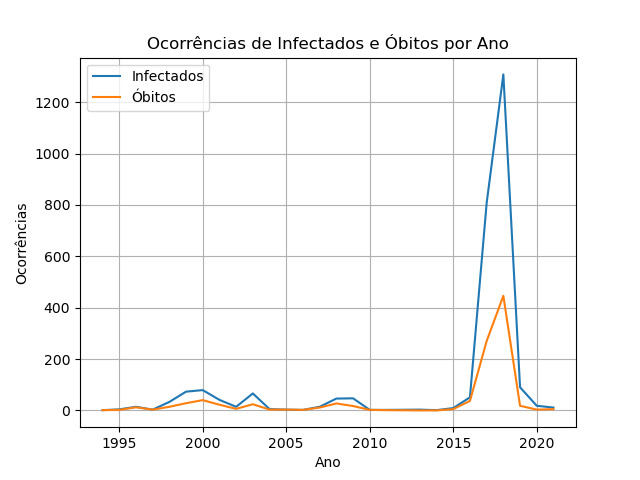
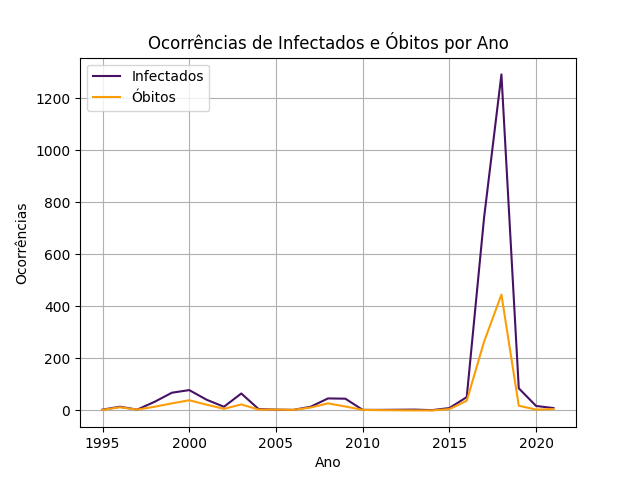
atualização da análise (2) e visualização

diff --git a/Analise_2/visualizacao.py b/Analise_2/visualizacao.py
@@ -1,5 +1,6 @@
 import matplotlib.pyplot as plt
 import pandas as pd
+import matplotlib.colors as mcolors
 
 def definir_rotulos(titulo, eixo_x, eixo_y):
     """
@@ -25,6 +26,7 @@ def definir_rotulos(titulo, eixo_x, eixo_y):
     plt.ylabel(eixo_y)
     return None
 
+
 def plotar_ocorrencias_ano(df:pd.DataFrame) -> None:
     """
     Plota ocorrências de infectados e óbitos por ano.
@@ -39,13 +41,13 @@ def plotar_ocorrencias_ano(df:pd.DataFrame) -> None:
     None
     """
     # Criação de arrays com as séries de valores
-    anos = df.iloc[:,0].values
-    infectados = df.iloc[:,1].values
-    obitos = df.iloc[:,2].values
+    anos = df['ANO_IS']
+    infectados = df['INFECTADOS']
+    obitos = df['OBITO']
 
     # Plotagem das séries de valores em um gráfico de linhas
-    plt.plot(anos,infectados,label='Infectados')
-    plt.plot(anos,obitos,label='Óbitos')
+    plt.plot(anos,infectados,label='Infectados', color='#471164')
+    plt.plot(anos,obitos,label='Óbitos', color='#fb9d07')
 
     # Configuração da plotagem (legendas, títulos, etc)
     definir_rotulos('Ocorrências de Infectados e Óbitos por Ano',
@@ -56,7 +58,7 @@ def plotar_ocorrencias_ano(df:pd.DataFrame) -> None:
 
     return None
 
-def plotar_mortes_por_mes(df:pd.DataFrame) -> None:
+def plotar_mortes_por_mes(df: pd.DataFrame) -> None:
     """
     Plota o total de óbitos e infecções por mês.
 
@@ -70,24 +72,24 @@ def plotar_mortes_por_mes(df:pd.DataFrame) -> None:
     None
     """
     # Criação de arrays com as séries de valores
-    meses = df.iloc[:, 0].values
-    infectados = df.iloc[:, 1].values
-    obitos = df.iloc[:, 2].values
+    meses = df['MES_IS']
+    infectados = df['INFECTADOS']
+    obitos = df['OBITO']
 
-    # Plotagem das séries de valores em um gráfico de linhas
-    plt.plot(meses, infectados, label='Infectados')
-    plt.plot(meses, obitos, label='Óbitos')
+    # Plotagem das séries de valores em um gráfico de linha #2fb47c
+    plt.plot(meses, infectados, label='Infectados', color='#471164', marker='o')  # Adicionado marcadores para os pontos
+    plt.plot(meses, obitos, label='Óbitos', color='#fb9d07', marker='o')  # Adicionado marcadores para os pontos
 
     # Configuração da plotagem (legendas, títulos, etc)
-    definir_rotulos('Total de óbitos e infecções por mês',
-                    'Mês', 'Ocorrências')
+    plt.title('Total de óbitos e infecções por mês')
+    plt.xlabel('Mês')
+    plt.ylabel('Ocorrências')
     plt.legend()
     plt.grid(True)
-    plt.xticks(rotation=30) # Defina a rotação das etiquetas do eixo x (30 graus)
-    plt.subplots_adjust(top=0.9, bottom=0.18, left=0.13, right=0.90) # Ajuste das margens
+    plt.xticks(rotation=30)  # Defina a rotação das etiquetas do eixo x (30 graus)
+    plt.subplots_adjust(top=0.9, bottom=0.18, left=0.13, right=0.90)  # Ajuste das margens
     plt.show()
 
-    return None
 
 def plotar_letalidade(df:pd.DataFrame) -> None:
     """
@@ -103,25 +105,22 @@ def plotar_letalidade(df:pd.DataFrame) -> None:
     None
     """
     # Criação de arrays com as séries de valores
-    anos = df.iloc[:, 0].values
-    letalidade = df.iloc[:, 1].values
-
-    # Plotagem das séries de valores em um gráfico de linhas
-    plt.plot(anos, letalidade)
+    anos = df['ANO_IS']
+    infectados = df['INFECTADOS']
+    letalidade = df['LETALIDADE']
 
     # Configuração da plotagem (legendas, títulos, etc)
-    definir_rotulos('Variação da letalidade da febre amarela',
-                    'Ano', 'Letalidade')
-    plt.grid(True)
-    plt.show()
 
-    # plt.figure(figsize=(10, 6))
-    # plt.scatter(obitos, letalidade, c=anos, cmap='viridis', s=100)
-    # plt.colorbar(label='Ano')
-    # plt.title("Relação entre Letalidade e Óbitos por Ano")
-    # plt.xlabel("Óbitos")
-    # plt.ylabel("Letalidade")
-    #
-    # plt.show()
+
+
+    plt.figure(figsize=[8,5])
+
+    plt.scatter(anos, letalidade, c=infectados, cmap='viridis', s=100, zorder=2)
+    plt.plot(anos, letalidade, zorder=1)
+    plt.colorbar(label='Infectados')
+    plt.title("Relação entre Letalidade e Infecções por Ano")
+    plt.ylabel("Letalidade")
+    plt.grid(axis='y',linestyle='--')
+    plt.show()
 
     return None

diff --git a/Analise_2/tratamento_dados.py b/Analise_2/tratamento_dados.py
@@ -156,7 +156,6 @@ def organizar_df_letalidade(df: pd.DataFrame) -> pd.DataFrame:
         df['LETALIDADE'] = df['OBITO'] / df['INFECTADOS']
         # Exclusão das colunas desnecessárias
         df = lf.remover_coluna(df, 'OBITO')
-        df = lf.remover_coluna(df, 'INFECTADOS')
         return df
     except KeyError as e:
         # Trata exceção se as colunas necessárias não estiverem presentes no DataFrame

diff --git a/Analise_2/main.py b/Analise_2/main.py
@@ -21,3 +21,5 @@ vis.plotar_mortes_por_mes(ocorrencias_por_mes)
 # PERGUNTA 2-c) Há alguma relação entre a letalidade da doença e o passar do tempo?
 letalidade_por_ano = td.organizar_df_letalidade(ocorrencias_por_ano)
 vis.plotar_letalidade(letalidade_por_ano)
+
+print(ocorrencias_por_ano)

diff --git a/README.md b/README.md
@@ -13,14 +13,44 @@ O repositório contém os seguintes elementos:
 
 1. **Códigos-Fonte**: Nossos códigos-fonte estão organizados de forma clara e compreensível. Você encontrará scripts Python que abordam a coleta e processamento de dados, análise estatística e visualização. Cada membro da equipe contribuiu de maneira significativa para o desenvolvimento desses códigos.
 
-2. **Conjunto de Dados**: Incluímos o conjunto de dados que utilizamos em nosso projeto. Os dados são provenientes de fontes confiáveis (https://dados.gov.br/dados/conjuntos-dados/febre-amarela-em-humanos-e-primatas-no-humanos---1994-a-2021) e foram tratados para garantir sua qualidade e integridade.
+2. **Conjunto de Dados**: Incluímos o conjunto de dados que utilizamos em nosso projeto. Os dados são provenientes de fontes confiáveis (https://dados.gov.br/dados/conjuntos-dados/febre-amarela-em-humanos-e-primatas-no-humanos---1994-a-2021, https://censo2022.ibge.gov.br/panorama/ e https://github.com/giuliano-oliveira/geodata-br-states/tree/main) e foram tratados para garantir sua qualidade e integridade.
 
-3. **Documentação**: 
+3. **Documentação**: Sphinx
 
 4. **Resultados e Visualizações**: Apresentamos visualizações gráficas atraentes e resultados de análises de dados para fornecer uma visão completa da febre amarela no Brasil.
 
 ## Equipe
 
-- **Anne Beatriz Cardoso de Sousa**: Responsável pel 
-- **Beatriz Miranda Bezerra**: Encarregada d
-- **Gustavo Murilo Cavalcante Carvalho**: Encarregado d
+- **Anne Beatriz Cardoso de Sousa**: Responsável pela filtragem e análise da 
+- **Beatriz Miranda Bezerra**: Encarregada da análise da distribuição por unidade federativa de infecções e óbitos.
+- **Gustavo Murilo Cavalcante Carvalho**: Encarregado da análise da distribuição mensal, anual e variação da letalidade ao longo dos anos.
+  
+## Resultados e visualização
+
+1. Neste gráfico é possível observar a maior ocorrência de febre amarela nos estados que compõem a região sudeste. Porém, uma das causas relacionadas a isso pode ser a quantidade populacional que é maior nesses estados.
+
+![Infecções por Unidade Federativa](./img/infec_uf.png)
+
+2. Para os óbitos registrados, o cenário é semelhante ao gráfico anterior.
+
+![Óbitos por Unidade Federativa](./img/obitos_uf.png)
+
+3. Entretanto, quando analisamos de forma relativa, levando em consideração os dados populacionais de cada Estado de acordo com o censo do IBGE de 2010, observamos um maior destaque de incidência para o Espírito Santo. Além disso, observamos Roraima ficando em maior evidência do que nas análises anteriores. 
+
+![Infecções (relativa) por Unidade Federativa](./img/infec_rel_uf.png)
+
+4. Em relação aos óbitos a cada cem mil habitantes do respectivo estado, percebemos as regiões Norte e Centro-Oeste ganhando um pouco mais de destaque, enquanto Roraima se destaca ainda mais.
+
+![Óbitos (relativo) por Unidade Federativa](./img/obitos_rel_uf.png)
+
+5. Nesta plotagem vemos a doença esteve sobre controle na maior parte do tempo, mas não completamente, pois na metade da última década houve um pico de infecções e mortes, correspondente à epidemia de febre amarela que ocorreu entre 2017 e 2019.
+
+![Ocorrências de Infectados e óbitos por ano](./img/infec_e_obitos_ano.png)
+
+6. O clima quente é favorável à reprodução dos mosquitos, os vetores da doença. Assim, a relação presente no gráfico faz muito sentido, pois é os meses com maior número de infeções, fazem parte do verão, o período mais quente do ano. 
+
+![Ocorrências de Infectados e óbitos por mês](./img/infec_e_obitos_mes.png)
+
+7. A variação da letalidade da doença ao longo dos anos não possui nenhuma tendência. Ainda assim, podemos ver que os anos com muitos infectados, ou seja, nos quais há uma amostra significativa, os pontos estão na mesma faixa. Tomando esse ponto como norma, temos que a letalidade está por volta de 35%
+
+![Variação da letalidade da febre amarela](./img/variacao_letalidade.png)
